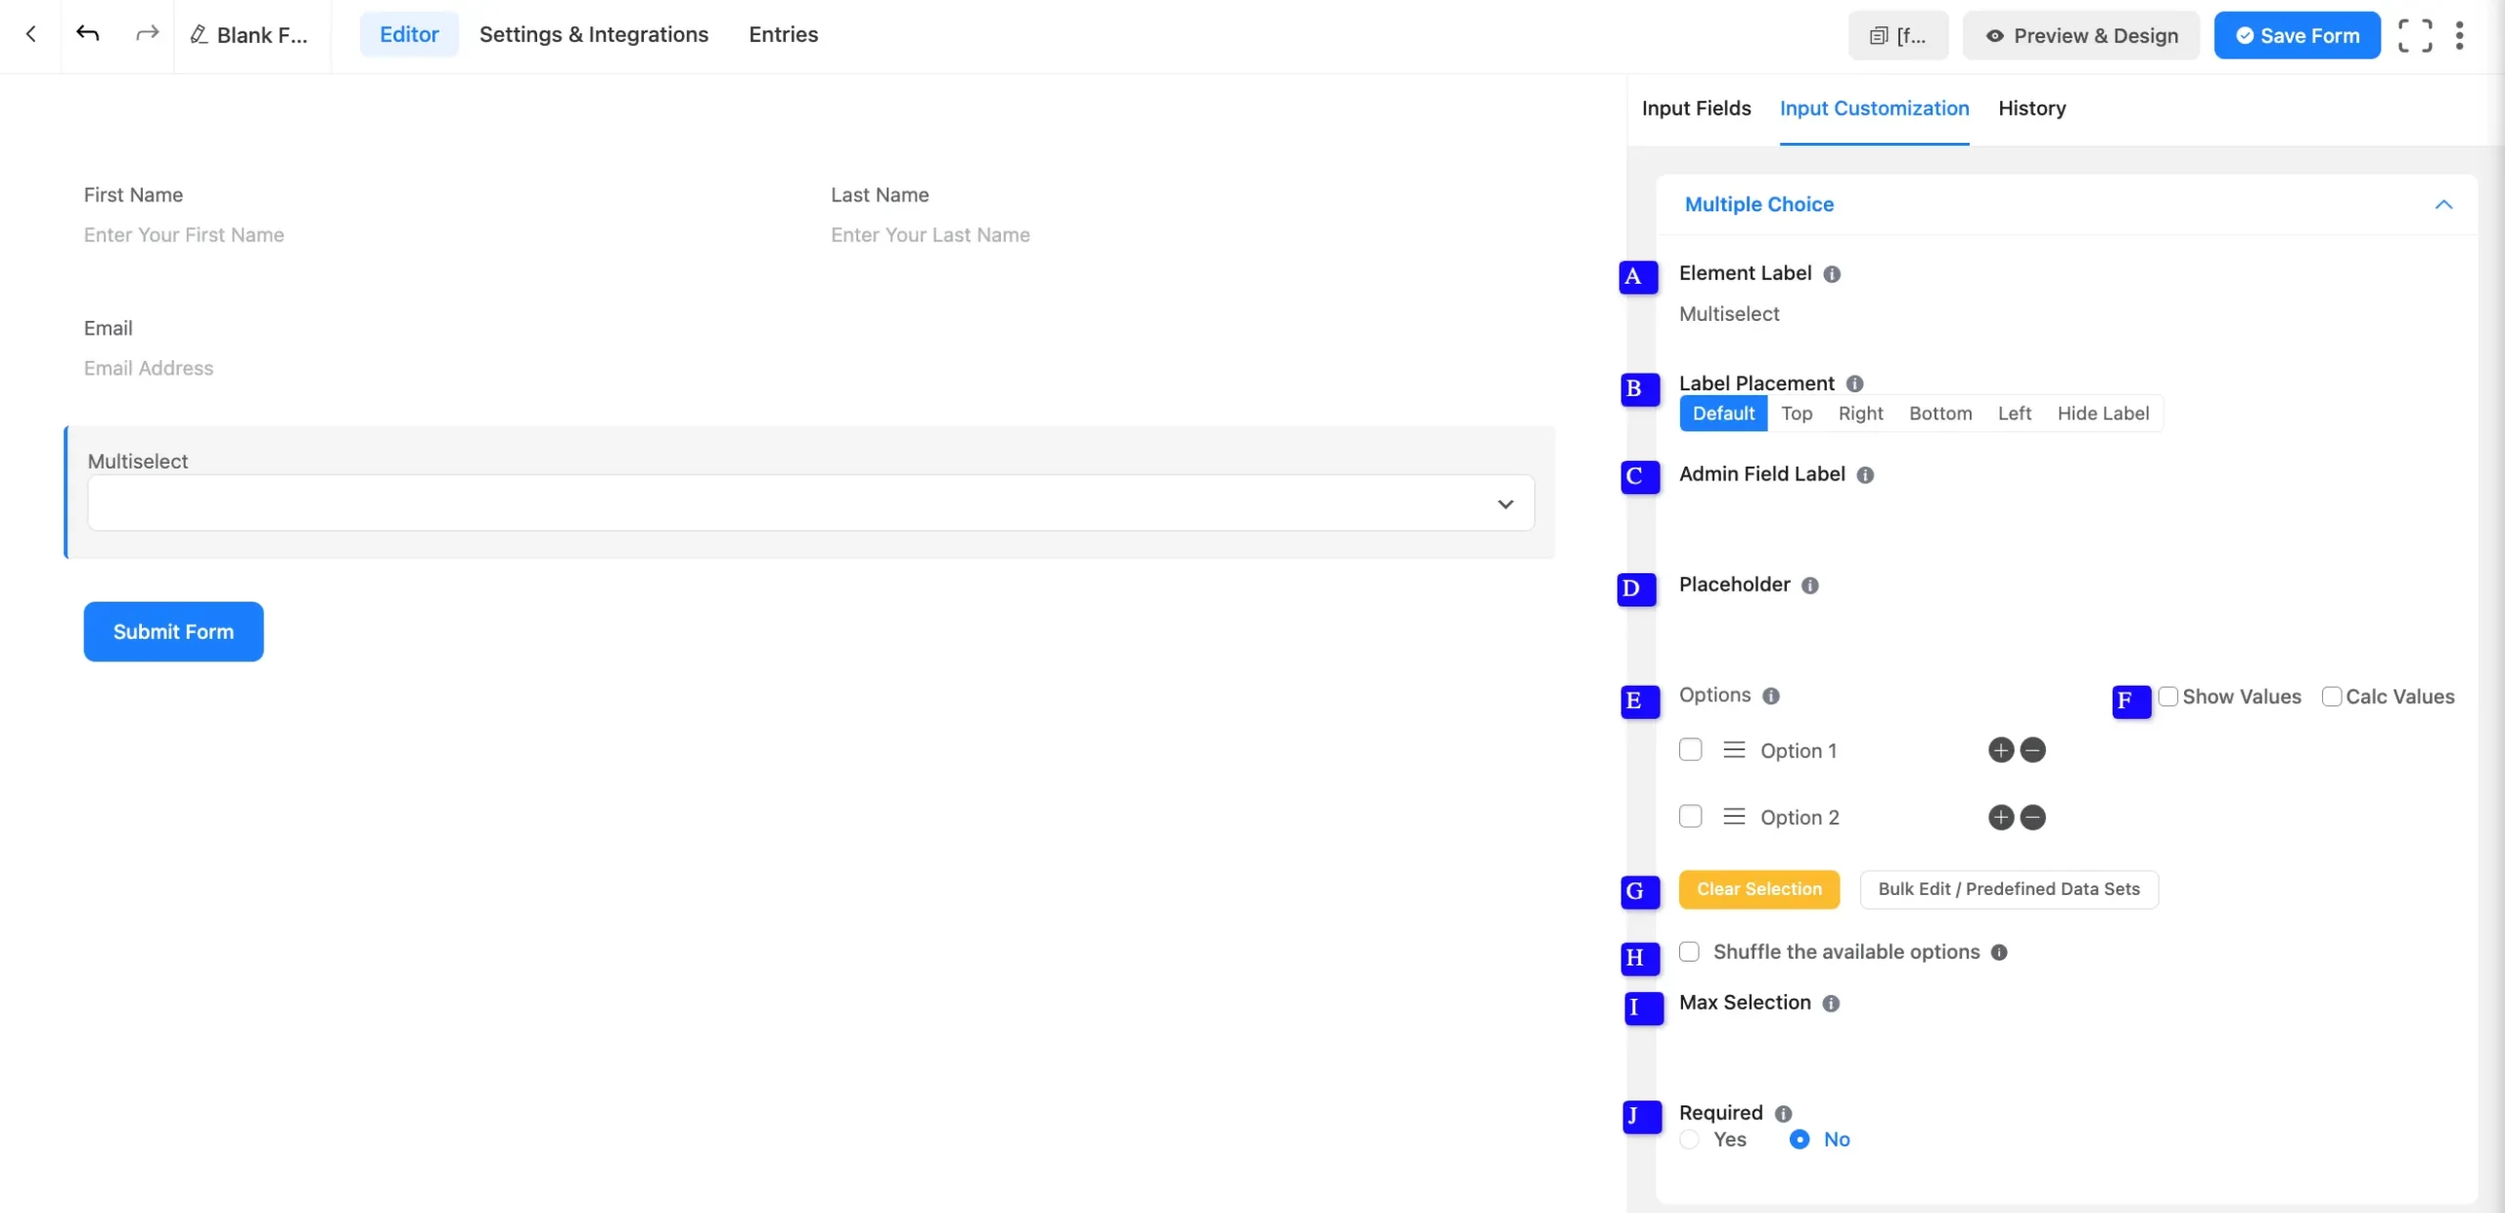
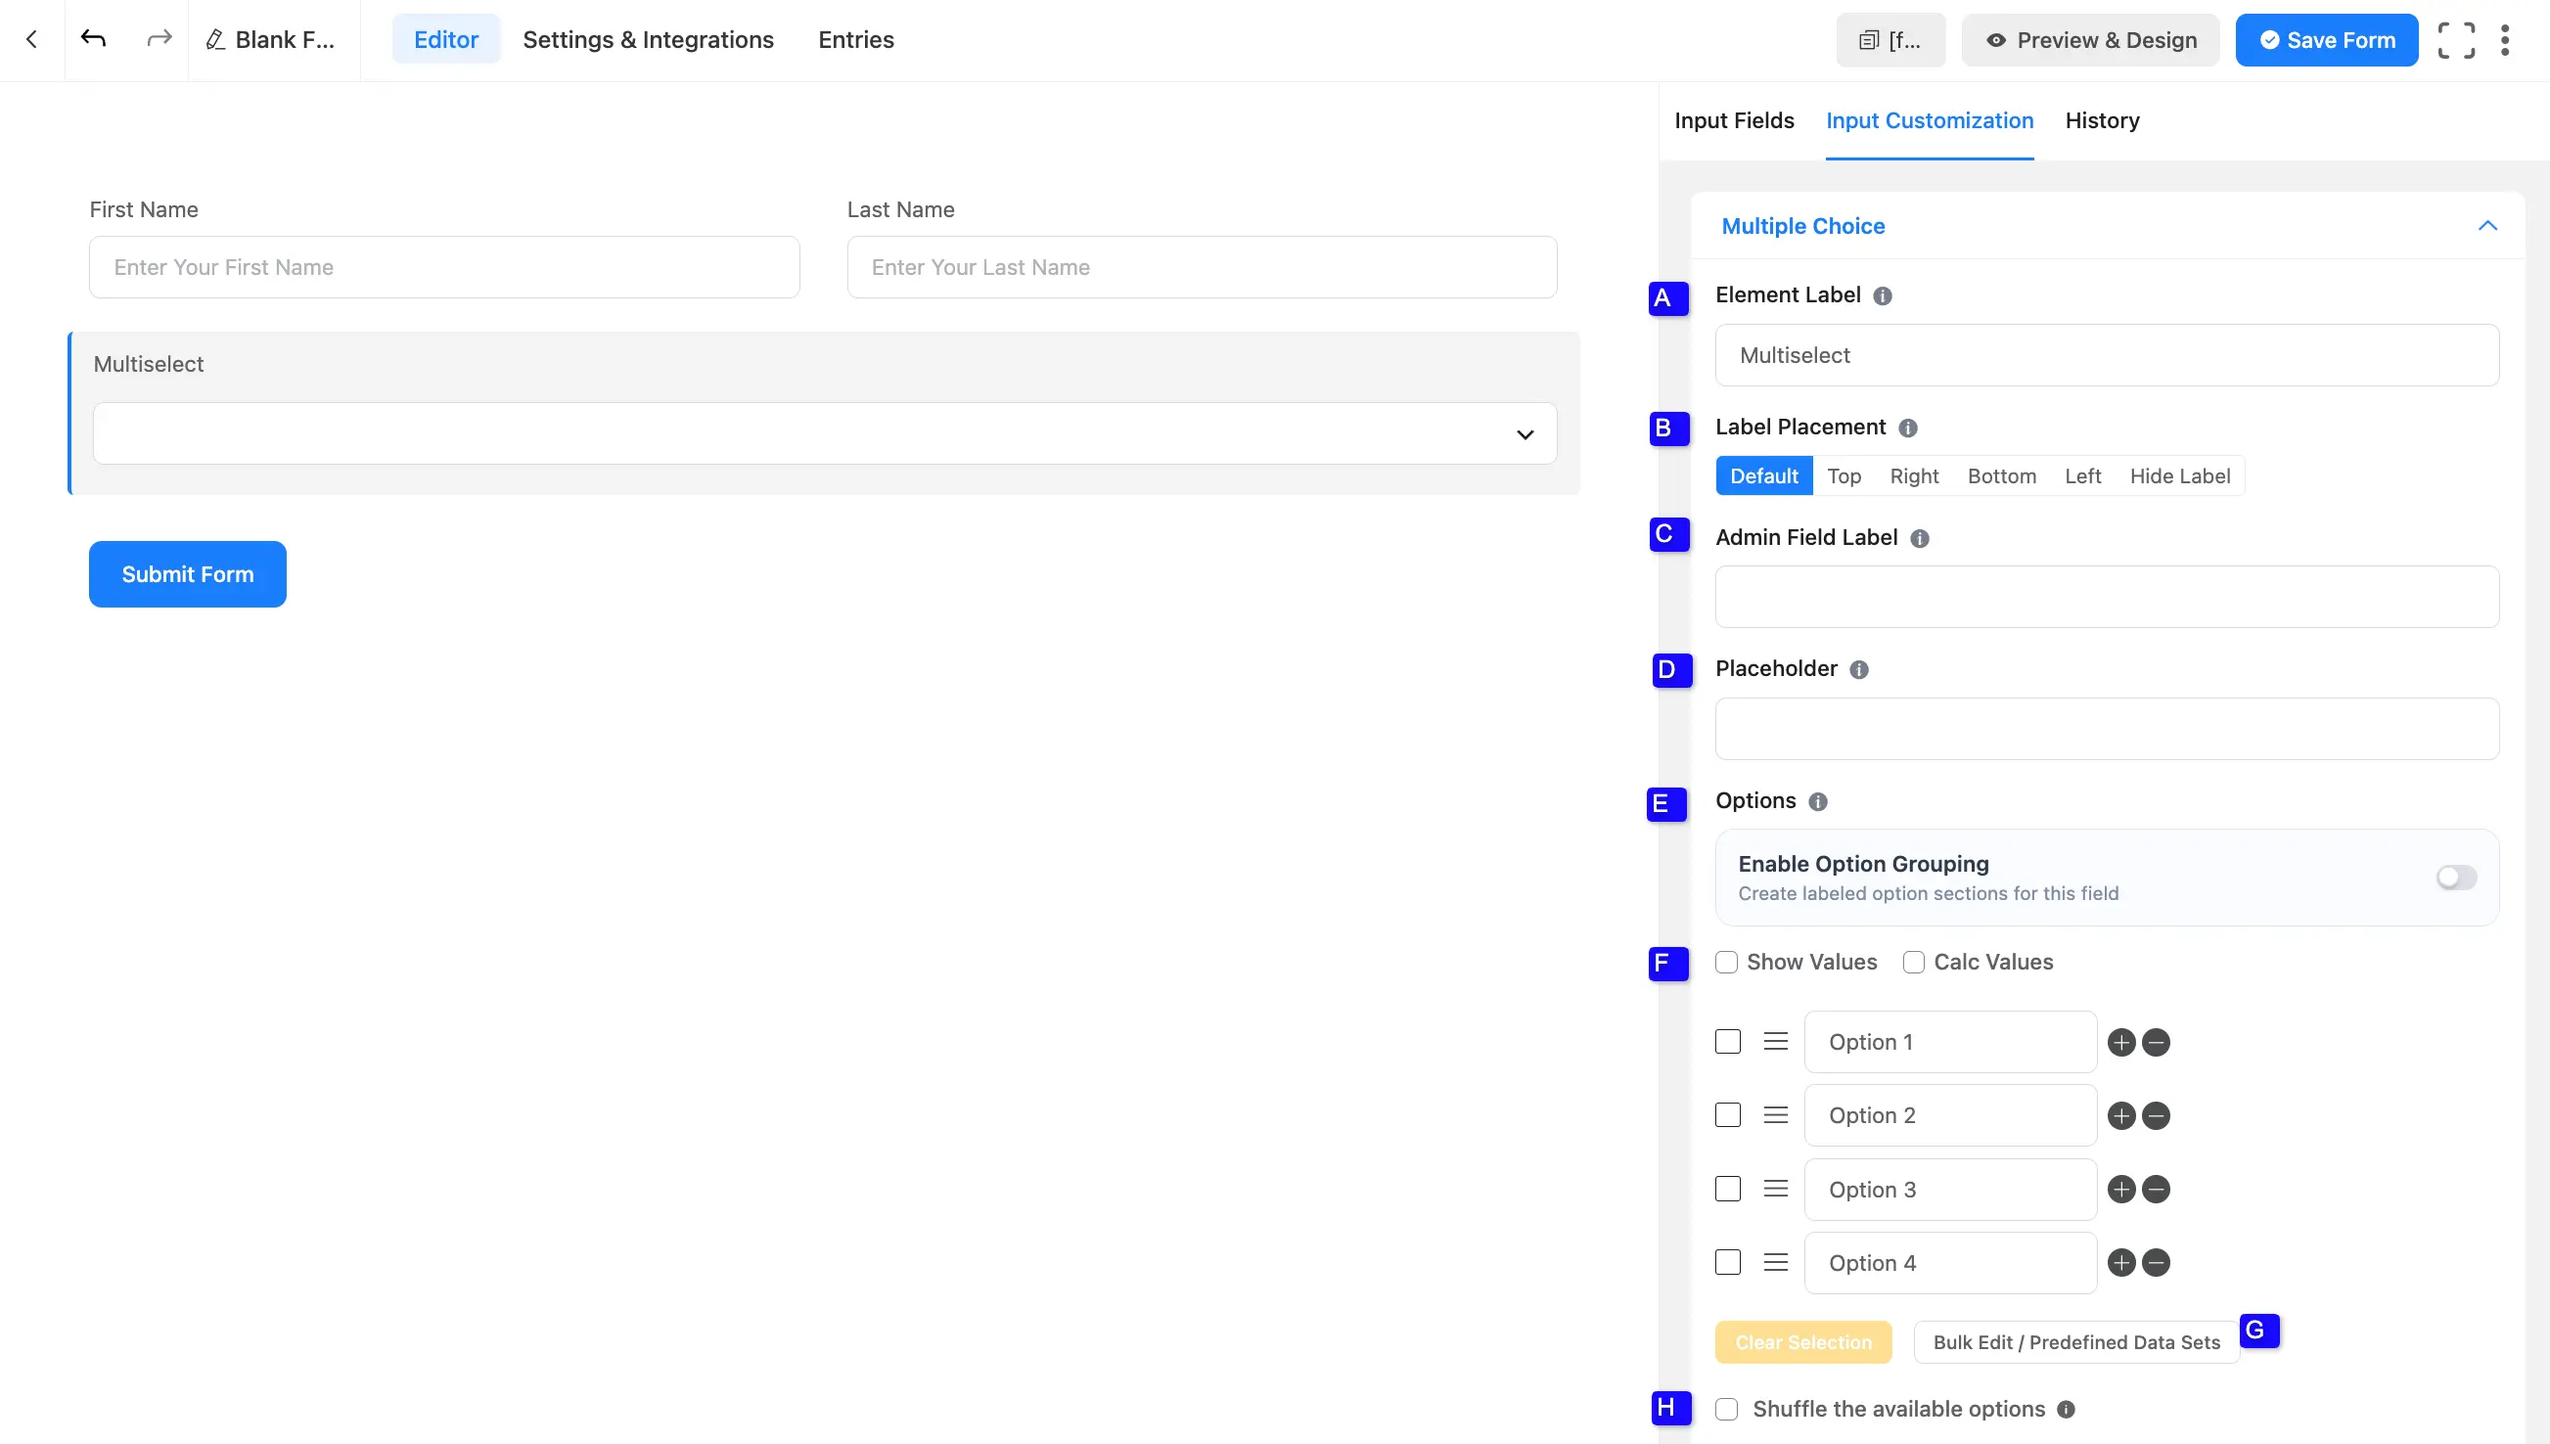
update  Multiple Choice Field

diff --git a/docs/form-fields/general-fields/multiple-choice-field.md b/docs/form-fields/general-fields/multiple-choice-field.md
@@ -48,27 +48,35 @@ You will find various settings options for customizing the field. Located in the
 
 **E. Options:** Create multiple choices for users to select from.
 
-- Show Values (for admin reference).
+- **Enable Option Grouping:** Turn this on to organize your choices into labeled sections. Click **Create New Option Group** to add a group, then add options inside it.
 
-- Add, Remove, or Edit Options.
+![Enable Option Grouping](/images/form-fields/general-fields/multiple-choice-field/enable-option-grouping.webp)
 
-- Insert an Option Anywhere using the Plus Icon.
+- **Add, Remove, or Edit Options.**
 
-- Drag & Drop to Rearrange Options.
+- **Insert an Option Anywhere** using the Plus Icon.
 
-**F. Show & Calc Value:** Users will get **Show** and **Calc** Values options. You may display your data and perform [numeric calculations](/numeric-calculation) using Show and Calc Values.
+- **Drag & Drop to Rearrange Options.**
 
-**G. Bulk Edit/Predefined Data Sets:** You can choose from a predefined data set for the dropdown field, so you don’t have to add each item manually.
+**F. Show Values / Calc Values:** Turn on **Show Values** to display each option's value for admin reference, or **Calc Values** to assign numeric values so you can perform [numeric calculations](/numeric-calculation).
 
-You can also save time by importing predefined datasets instead of manually adding each option. (valid for dropdowns like countries or states.)
+![Basic Options](/images/form-fields/general-fields/multiple-choice-field/Basic-options-04-6-scaled.webp)
+
+**G. Bulk Edit/Predefined Data Sets:** You can choose from a predefined data set for the field, so you don’t have to add each item manually.
+
+You can also save time by importing predefined datasets instead of manually adding each option. (Useful for dropdowns like countries or states.)
+
+![Bulk Edit Predefined Data Sets](/images/form-fields/general-fields/multiple-choice-field/bulk-edit-predefined-data-sets.webp)
 
 **H. Shuffle the available options:** You can enable the shuffling of your dropdown list or select field options so that every user sees a randomized option.
 
-**I. Max Selection:** Set a limit on a user's choices.
+**I. Required:** Decide whether users must select at least one option before submission.
 
-**H. Required:** Decide whether users must select at least one option before submission.
+**J. Max Selection:** Set the maximum number of options a user is allowed to select. Leave it blank for no limit.
 
-![Basic Options](/images/form-fields/general-fields/multiple-choice-field/Basic-options-04-6-scaled.webp)
+**K. Min Selection:** Set the minimum number of options a user must select before submitting the form. Leave it blank if a minimum isn't required.
+
+![Max and Min Selection](/images/form-fields/general-fields/multiple-choice-field/max-and-minimum.webp)
 
 ### Advanced Options
 
